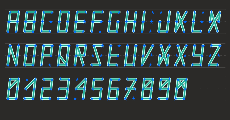
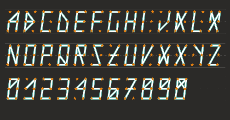
Changed the font, stars and updated readme and thumbnails.

Changed region(s): [[0.0304, 0.075, 0.9739, 0.275], [0.0, 0.35, 0.9739, 0.55], [0.0304, 0.65, 0.8217, 0.85]]

diff --git a/draw_letters.js b/draw_letters.js
@@ -9,10 +9,9 @@ function drawLetter(letterData) {
   // color/stroke setup
   strokeWeight(4);
 
-  const lines  = "#24ad96";
-  const dots = "#006aff";
+  const lines  = "#ffffff";
   const colorBack   = "#000000";
-  const glow = "#c4fff5";
+  const glow = "#6bb2a9";
 
 
 
@@ -55,7 +54,7 @@ p6y = letterData["p6y"];
 
 fill(glow); 
 stroke(glow); 
-strokeWeight(22); 
+strokeWeight(20); 
 
 //point one
 line(25, 20, p1x, p1y);
@@ -72,7 +71,7 @@ line(75, 180, p6x, p6y);
 
 fill(lines); 
 stroke(lines); 
-strokeWeight(12); 
+strokeWeight(10); 
 
 
 //point one
@@ -90,101 +89,107 @@ line(75, 180, p6x, p6y);
 
 
 //*****DRAW DOTS******
-strokeWeight(4);
-fill(dots); 
-stroke(dots); 
+strokeWeight(5);
+fill('#e07e11'); 
+stroke('#e07e11'); 
 
 
 //POINT ONE
 //ellipse(25, 20, dotSize);//top left p1  
+push();
+translate(-1, -3); //needed to move stars and didnt want to move every point individally
 beginShape();
 vertex(25,12);
-vertex(27,20);
-vertex(32,20);
-vertex(28,22);
+vertex(28,18);
+vertex(34,20);
+vertex(29,24);
 vertex(30,30);
-vertex(25,25);
+vertex(25,27);
 vertex(20,30);
-vertex(22,22);
-vertex(18,20);
-vertex(23,20);
+vertex(21,24);
+vertex(16,20);
+vertex(22,18);
 endShape(CLOSE);
+
 
 //POINT TWO
 //ellipse(95, 20, dotSize);//top right p2 
 beginShape();
 vertex(95,12);
-vertex(97,20);
-vertex(102,20);
-vertex(98,22);
+vertex(98,18);
+vertex(104,20);
+vertex(99,24);
 vertex(100,30);
-vertex(95,25);
+vertex(95,27);
 vertex(90,30);
-vertex(92,22);
-vertex(88,20);
-vertex(93,20);
+vertex(91,24);
+vertex(86,20);
+vertex(92,18);
 endShape(CLOSE);
+
 
 //POINT THREE
 //ellipse(15, 100, dotSize); //mid left p3 
 beginShape();
-vertex(15, 92);
-vertex(17,100);
-vertex(22, 100);
-vertex(18, 102);
-vertex(20, 110);
-vertex(15, 105);
-vertex(10, 110);
-vertex(12, 102);
-vertex(8, 100);
-vertex(13, 100);
+vertex(15,92);
+vertex(18,98);
+vertex(24,100);
+vertex(19,104);
+vertex(20,110);
+vertex(15,107);
+vertex(10,110);
+vertex(11,104);
+vertex(6,100);
+vertex(12,98);
 endShape(CLOSE);
+
 
 //POINT FOUR
 //ellipse(85, 100, dotSize); //mid right p4 
 beginShape();
-vertex(85, 92);
-vertex(87, 100);
-vertex(92, 100);
-vertex(88, 102);
-vertex(90, 110);
-vertex(85, 105);
-vertex(80, 110);
-vertex(82, 102);
-vertex(78, 100);
-vertex(83, 100);
+vertex(85,92);
+vertex(88,98);
+vertex(94,100);
+vertex(89,104);
+vertex(90,110);
+vertex(85,107);
+vertex(80,110);
+vertex(81,104);
+vertex(76,100);
+vertex(82,98);
 endShape(CLOSE);
 
 //POINT FIVE
 //ellipse(5, 180, dotSize); //bottom left p5 
 beginShape();
-vertex(6, 172);
-vertex(8, 180);
-vertex(13, 180);
-vertex(9, 182);
-vertex(11, 190);
-vertex(6, 185);
-vertex(1, 190);
-vertex(3, 182);
-vertex(0, 180);
-vertex(4, 180);
+vertex(5,172);
+vertex(8,178);
+vertex(14,180);
+vertex(9,184);
+vertex(10,190);
+vertex(5,187);
+vertex(0,190);
+vertex(1,184);
+vertex(-4,180);
+vertex(2,178);
 endShape(CLOSE);
+
 
 //POINT SIX
 //ellipse(75, 180, dotSize); //bottom right p6 
 beginShape();
-vertex(75, 172);
-vertex(77, 180);
-vertex(82, 180);
-vertex(78, 182);
-vertex(80, 190);
-vertex(75, 185);
-vertex(70, 190);
-vertex(72, 182);
-vertex(68, 180);
-vertex(73, 180);
+vertex(75,172);
+vertex(78,178);
+vertex(84,180);
+vertex(79,184);
+vertex(80,190);
+vertex(75,187);
+vertex(70,190);
+vertex(71,184);
+vertex(66,180);
+vertex(72,178);
 endShape(CLOSE);
-
+pop();
 
 }
 function interpolate_letter(percent, oldObj, newObj) {

diff --git a/letters.js b/letters.js
@@ -31,12 +31,12 @@ const alphabet = {
 
   "A": {
 
-    "p1x": twox,
-    "p1y": twoy,
+    "p1x": 'null',
+    "p1y": 'null',
     "p2x": fourx,
     "p2y": foury,
-    "p3x": onex,
-    "p3y": oney,
+    "p3x": twox,
+    "p3y": twoy,
     "p4x": threex,
     "p4y": threey,
     "p5x": threex,
@@ -47,18 +47,18 @@ const alphabet = {
   },
   "B": {
     
-    "p1x": twox,
-    "p1y": twoy,
-    "p2x": sixx,
-    "p2y": sixy,
-    "p3x": onex,
-    "p3y": oney,
-    "p4x": threex,
-    "p4y": threey,
-    "p5x": threex,
-    "p5y": threey,
-    "p6x": fivex,
-    "p6y": fivey
+    "p1x": fourx,
+    "p1y": foury,
+    "p2x": 'null',
+    "p2y": 'null',
+    "p3x": fourx,
+    "p3y": foury,
+    "p4x": fivex,
+    "p4y": fivey,
+    "p5x": onex,
+    "p5y": oney,
+    "p6x": 'null',
+    "p6y": 'null'
 
  },
   "C": {
@@ -79,10 +79,10 @@ const alphabet = {
   },
   "D":{
     
-    "p1x": twox,
-    "p1y": twoy,
-    "p2x": fourx,
-    "p2y": foury,
+    "p1x": fourx,
+    "p1y": foury,
+    "p2x": 'null',
+    "p2y": 'null',
     "p3x": onex,
     "p3y": oney,
     "p4x": sixx,
@@ -179,12 +179,12 @@ const alphabet = {
     "p2y": foury,
     "p3x": threex,
     "p3y": threey,
-    "p4x": sixx,
-    "p4y": sixy,
+    "p4x": fivex,
+    "p4y": fivey,
     "p5x": threex,
     "p5y": threey,
-    "p6x": fivex,
-    "p6y": fivey
+    "p6x": 'null',
+    "p6y": 'null'
   },
   "K": {
     
@@ -327,12 +327,12 @@ const alphabet = {
   },
   "T": {
     
-    "p1x": threex,
-    "p1y": threey,
-    "p2x": 'null',
-    "p2y": 'null',
-    "p3x": fivex,
-    "p3y": fivey,
+    "p1x": 'null',
+    "p1y": 'null',
+    "p2x": fivex,
+    "p2y": fivey,
+    "p3x": 'null',
+    "p3y": 'null',
     "p4x": threex,
     "p4y": threey,
     "p5x": sixx,
@@ -405,18 +405,18 @@ const alphabet = {
   },
   "Y":{
     
-    "p1x": threex,
-    "p1y": threey,
+    "p1x": fourx,
+    "p1y": foury,
     "p2x": fourx,
     "p2y": foury,
-    "p3x": fourx,
-    "p3y": foury,
+    "p3x": 'null',
+    "p3y": 'null',
     "p4x": sixx,
     "p4y": sixy,
-    "p5x": fivex,
-    "p5y": fivey,
-    "p6x": fivex,
-    "p6y": fivey
+    "p5x": 'null',
+    "p5y": 'null',
+    "p6x": 'null',
+    "p6y": 'null'
     
   },
   "Z": {
@@ -522,16 +522,16 @@ const alphabet = {
     "p6y": fivey
   },
   "6": {
-    "p1x": threex,
-    "p1y": threey,
+    "p1x": fivex,
+    "p1y": fivey,
     "p2x": onex,
     "p2y": oney,
     "p3x": fourx,
     "p3y": foury,
     "p4x": sixx,
     "p4y": sixy,
-    "p5x": threex,
-    "p5y": threey,
+    "p5x": fourx,
+    "p5y": foury,
     "p6x": fivex,
     "p6y": fivey
   },

diff --git a/README.md b/README.md
@@ -1,5 +1,7 @@
 ## PS2 MDDN 242 2019
 
+My concept for my font has changed a little from my original idea. After playing around with the parameters and different shape objects for the connecting dots I found that I really liked how the starts looked and instead of making a neon kind of font I thought it would be cool to incorporate the idea of constellations into my font as the lines connecting the star points remind me of constellations. I have changed some of my letters to make them more angular and interesting but still have some polishing to do for the appearance and interaction. 
+
 UPDATE: Added numbers and null character, created constants for each of the points x and y values to make parameters easier to do, changed dots to stars.
 
 I changed my parameters from boolean to parameters that allow for the interpolation to work more effectively. The style still needs some work because it is very basic and I need to work out how to remove the unused dots. I currently have 12 parameters per letter which denote the x and y coordinates that each point will go to.
